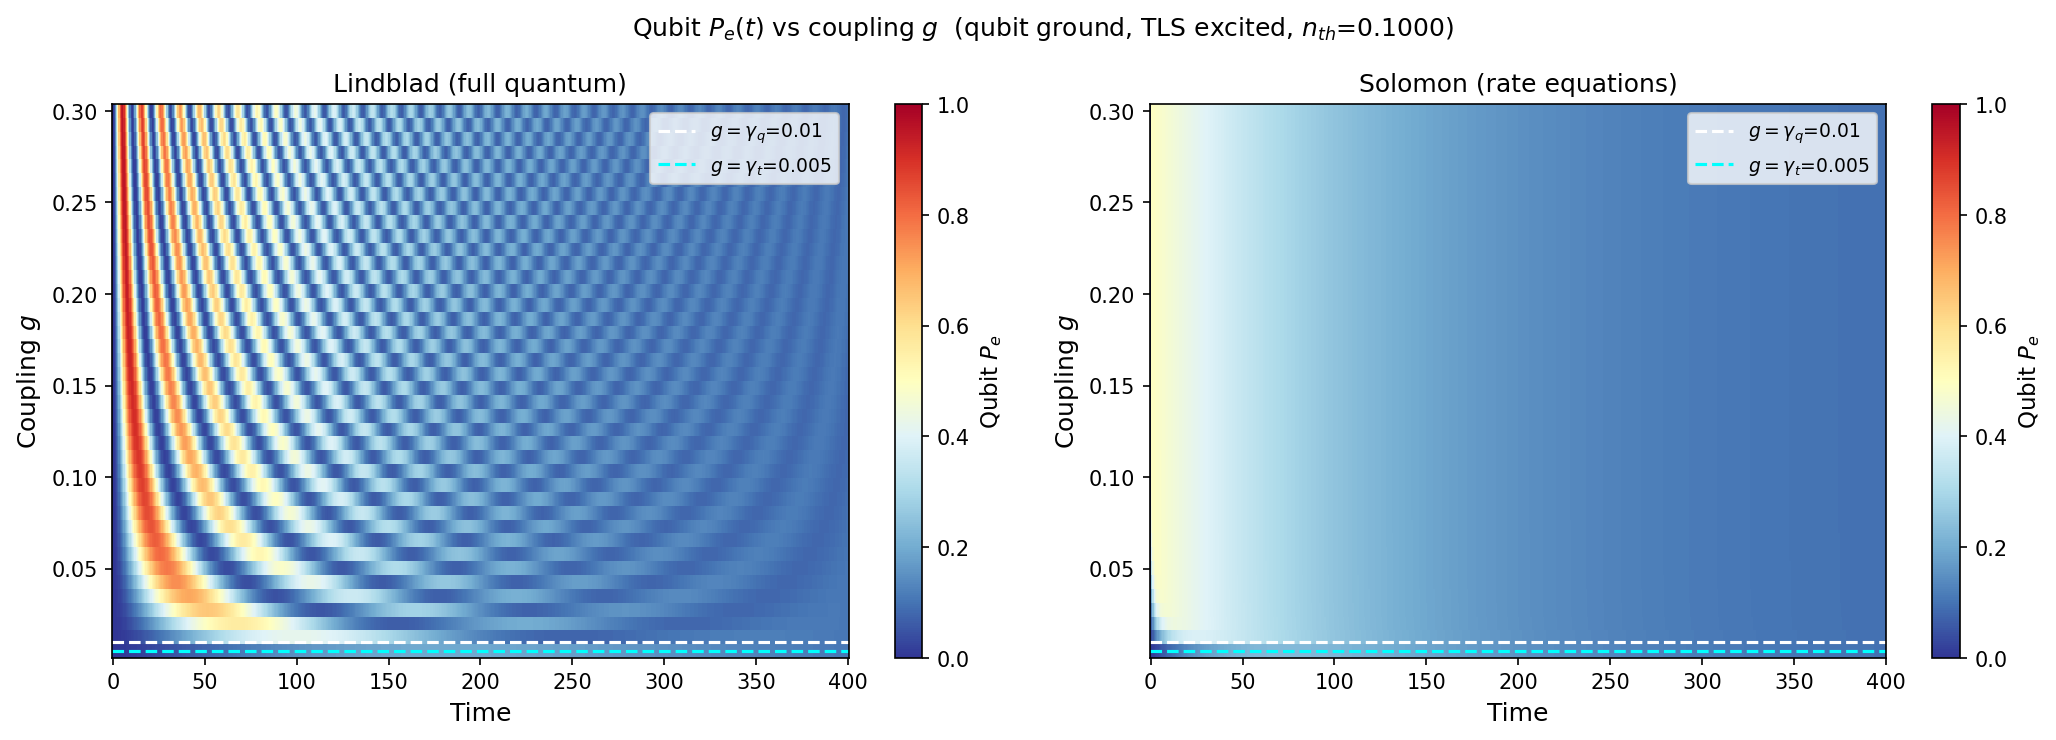
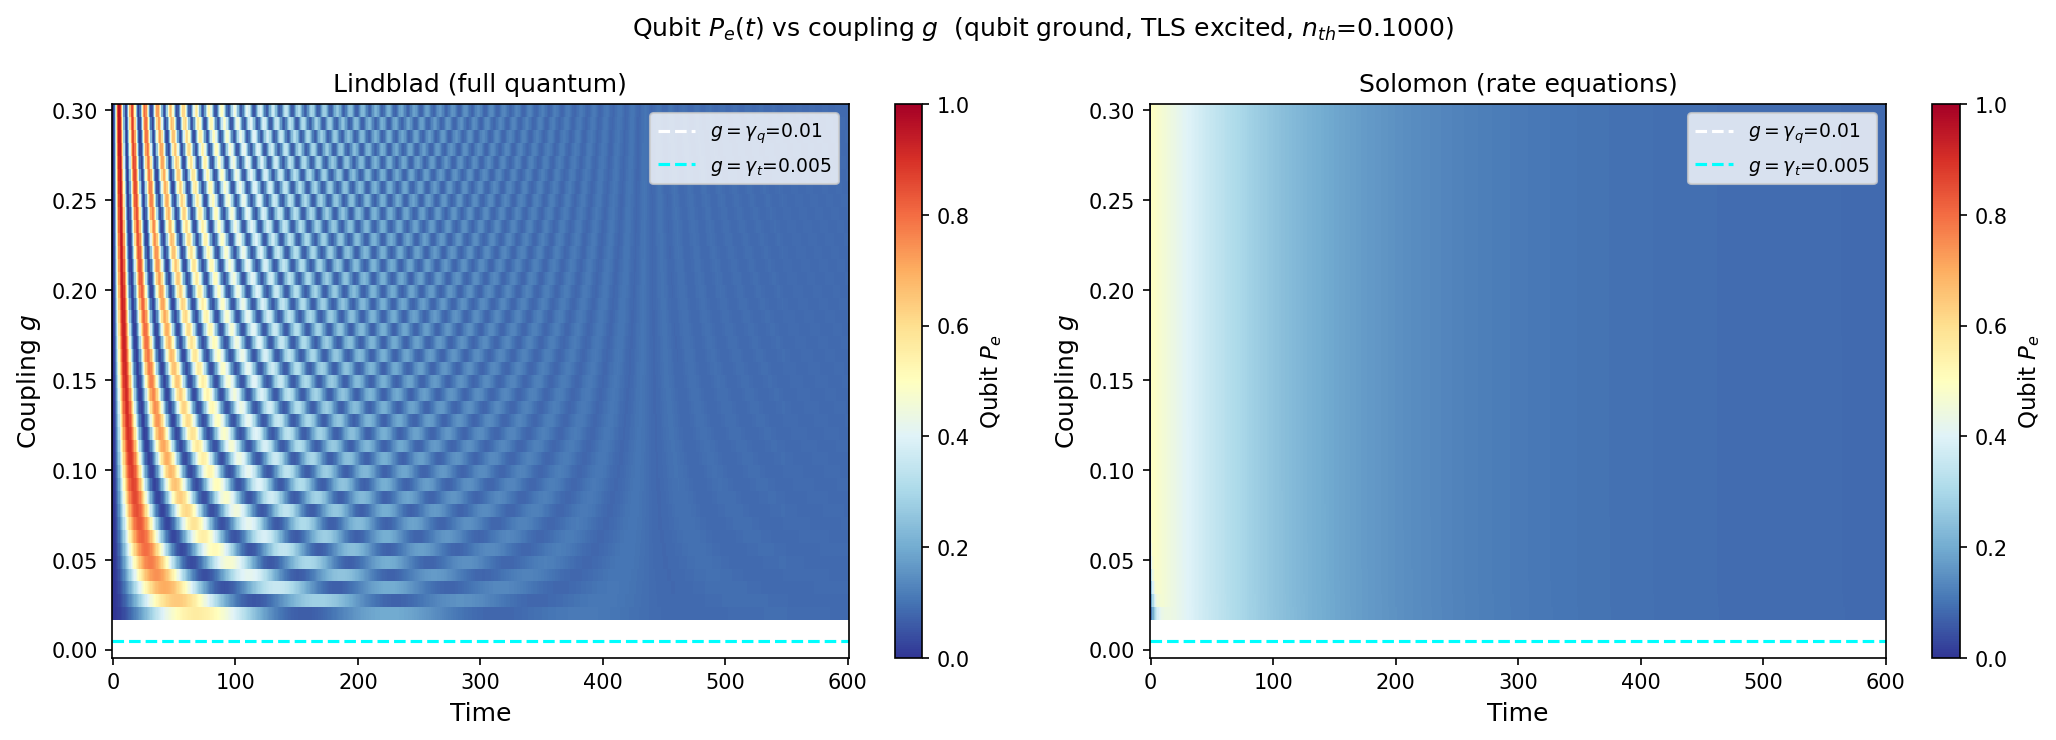
feat: full pipeline results nth0.1000

diff --git a/analysis/06_coupling_sweep_tevo.py b/analysis/06_coupling_sweep_tevo.py
@@ -37,8 +37,8 @@ FIXED = dict(
     n_th_t  = N_TH,
 )
 
-G_VALUES = np.linspace(0.005, 0.3, 40)
-T_END    = 400
+G_VALUES = np.linspace(0.02, 0.3, 40)   # start at g=0.02, T_rabi=157
+T_END    = 600                            # covers ~4 cycles at g=0.02
 N_STEPS  = 600
 # ──────────────────────────────────────────────────────────────────────────────
 

diff --git a/analysis/02_single_trajectory.py b/analysis/02_single_trajectory.py
@@ -25,7 +25,7 @@ from utils.physics import n_thermal
 from utils.io import save
 
 # ─── CONFIGURE HERE ───────────────────────────────────────────────────────────
-N_TH   = 0.0     # thermal photon number (0.0 = T=0)
+N_TH   = 0.1     # thermal photon number (0.0 = T=0)
                   # use n_thermal(freq_GHz, temp_K) for physical units
                   # e.g. N_TH = n_thermal(5.0, 0.100) for 5GHz at 100mK
 

diff --git a/analysis/03_sweep_g_gamma.py b/analysis/03_sweep_g_gamma.py
@@ -24,7 +24,7 @@ from utils.metrics import ISE, max_diff, coherence_metrics, fit_biexp
 from utils.io import save_sweep
 
 # ─── CONFIGURE HERE ───────────────────────────────────────────────────────────
-N_TH = 0.0    # thermal photon number (0.0 = T=0)
+N_TH = 0.1    # thermal photon number (0.0 = T=0)
 
 FIXED = dict(
     wq      = 1.0,

diff --git a/analysis/04_sweep_detuning.py b/analysis/04_sweep_detuning.py
@@ -24,7 +24,7 @@ from utils.metrics import ISE, max_diff, coherence_metrics, fit_biexp
 from utils.io import save_sweep
 
 # ─── CONFIGURE HERE ───────────────────────────────────────────────────────────
-N_TH = 0.0    # thermal photon number (0.0 = T=0)
+N_TH = 0.1    # thermal photon number (0.0 = T=0)
 
 FIXED = dict(
     wq      = 1.0,

diff --git a/analysis/05_phase_diagram.py b/analysis/05_phase_diagram.py
@@ -28,7 +28,7 @@ from utils.metrics import ISE, coherence_metrics
 from utils.io import save_phase_diagram, load_phase_diagram
 
 # ─── CONFIGURE HERE ───────────────────────────────────────────────────────────
-N_TH = 0.0    # thermal photon number (0.0 = T=0)
+N_TH = 0.1    # thermal photon number (0.0 = T=0)
 
 FIXED = dict(
     wq      = 1.0,